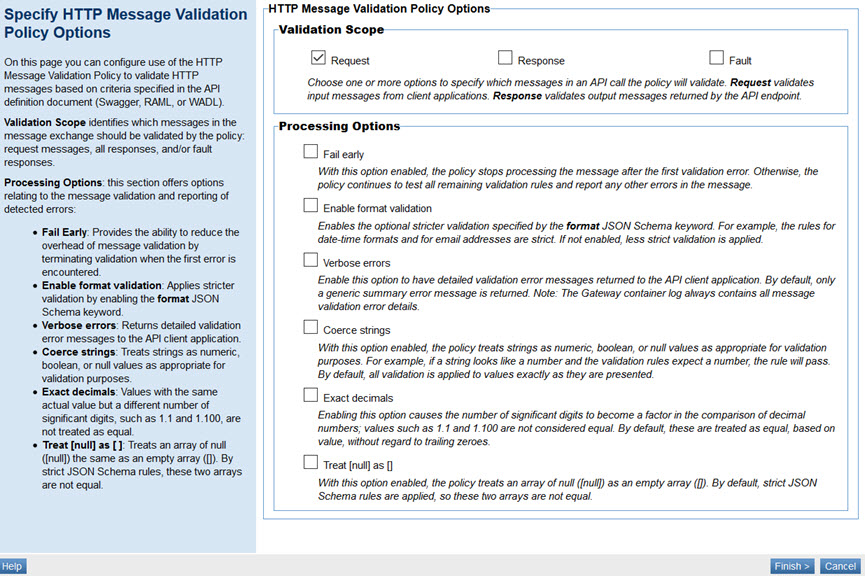
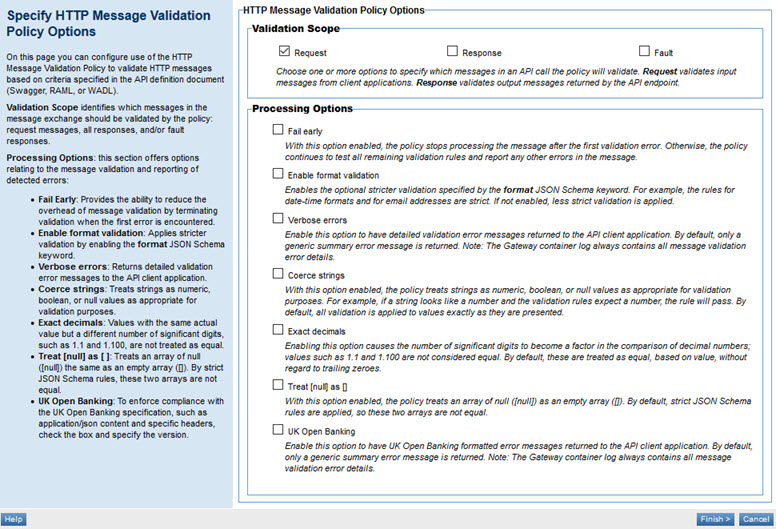
INFRA-3292 2018.0.4 doc updates

diff --git a/ag/policies/policy_op_jose_security_v2.htm b/ag/policies/policy_op_jose_security_v2.htm
@@ -9,12 +9,11 @@ weight: 04
 type: page
 nav-title: JOSE Security v2
 ---
-<h2 id="top">Using the JOSE Security Policy v2 (Unencoded Payload Support)</h2>
+<h2 id="top">Using the JOSE Security Policy v2 (Unencoded Payload Support) </h2>
 <p>Learn how to use the JOSE Security Policy v2 (Unencoded Payload Support) to sign and encrypt JSON message content.</p>
 
-<p>
-<a href="about_policies_view.htm" class="button secondary">About Policies</a>  
-<a href="policy_management.htm" class="button secondary">Managing Policies</a>  
+<p><a href="about_policies_view.htm" class="button secondary">About Policies</a> 
+<a href="policy_management.htm" class="button secondary">Managing Policies</a> 
 <a href="policies_operational_about.htm" class="button secondary">About Operational Policies</a></p>
 <p>For information about using policies in the context of the developer portal, see <a href="../../cm/learnmore/bus_admin_organizations.htm#h_business_policies">Business Policies</a>.</p>
 <h5 class="stamp">Supported Platforms: 8.4.17 and later</h5>
@@ -66,7 +65,7 @@ nav-title: JOSE Security v2
 <ul>
 	<li>Support of the Unencoded Payload specification</li>
 	<li>Support of additional algorithms (PS256, PS384, and PS512)</li>
-	<li>Support of the <strong>crit</strong> claim required by the Open Banking specification</li>
+	<li>Support of the UK Open Banking specification (for details see below)</li>
 	<li>JWKS support (when configured for consumer Apps in the App OAuth Profile)</li>
 </ul>
 <p><a href="#top">back to top</a></p>
@@ -81,7 +80,7 @@ nav-title: JOSE Security v2
 	</ul>
 <p>In addition, it supports the following versions of the UK Open Banking specification:</p>
 <ul>
-	<li>2.0: <a href="https://openbanking.atlassian.net/wiki/spaces/DZ/pages/127009221/Read+Write+Data+API+Specification+-+v2.0.0" title="https://openbanking.atlassian.net/wiki/spaces/DZ/pages/127009221/Read+Write+Data+API+Specification+-+v2.0.0" target="_blank">https://openbanking.atlassian.net/wiki/spaces/DZ/pages/127009221/Read+Write+Data+API+Specification+-+v2.0.0</a></li>
+	<li>Versions 3.0 and earlier, for example 2.0: <a href="https://openbanking.atlassian.net/wiki/spaces/DZ/pages/127009221/Read+Write+Data+API+Specification+-+v2.0.0" title="https://openbanking.atlassian.net/wiki/spaces/DZ/pages/127009221/Read+Write+Data+API+Specification+-+v2.0.0" target="_blank">https://openbanking.atlassian.net/wiki/spaces/DZ/pages/127009221/Read+Write+Data+API+Specification+-+v2.0.0</a></li>
 	<li>3.1: <a href="https://openbanking.atlassian.net/wiki/spaces/DZ/pages/937656404/Read+Write+Data+API+Specification+-+v3.1" title="https://openbanking.atlassian.net/wiki/spaces/DZ/pages/937656404/Read+Write+Data+API+Specification+-+v3.1" target="_blank">https://openbanking.atlassian.net/wiki/spaces/DZ/pages/937656404/Read+Write+Data+API+Specification+-+v3.1</a></li>
 </ul>
 <p><a href="#top">Back to top</a></p>
@@ -92,13 +91,15 @@ nav-title: JOSE Security v2
 <p>The JOSE Security Policy v2 includes the option to enable Open Banking support (Version 8.4.18 and later).</p>
 <p>This policy supports UK Open Banking versions as specified above.</p>
 <p>When you enable this feature, the policy enforces additional rules determined by the Open Banking specification that you specify.</p>
-<p>Some examples of Open Banking support are:</p>
+<p>Some examples of UK Open Banking support are:</p>
 <ul>
 	<li><a href="#jose_ob_ct_accept">Content-Type and Accept header values</a></li>
 	<li><a href="#jose_ob_crit"><strong>crit</strong> claim</a></li>
+	<li><a href="#jose_ob_iat"><strong>iat</strong> claim</a></li>
 	<li><a href="#jose_ob_iss"><strong>iss</strong> claim</a></li>
-	<li><a href="#jose_ob_tan"><strong>tan</strong> claim</a> (v3.1)</li>
-	<li><a href="#jose_ob_typ"><strong>typ</strong> claim</a> (v3.1)</li>
+	<li><a href="#jose_ob_tan"><strong>tan</strong> claim</a> (v3.1) (Version 2018.0.4 and later)</li>
+	<li><a href="#jose_ob_typ"><strong>typ</strong> claim</a> (v3.1) (Version 2018.0.4 and later)</li>
+	<li><a href="#jose_ob_error_msging">Error messaging requirements</a> (v3.1) (Version 2018.0.4 and later)</li>
 </ul>
 
 
@@ -108,10 +109,11 @@ nav-title: JOSE Security v2
 
 <h4 id="jose_ob_crit">crit claim</h4>
 <p>The JOSE Security Policy v2 supports the required <strong>crit</strong> claim with specific values.</p>
-<p><strong>2.0:</strong></p>
-<p>For Open Banking 2.0, the JOSE policy v2 supports sending the custom <strong>iat</strong> and <strong>iss</strong> claims, and supports specifying those custom claims in the <strong>crit</strong> claim, as per the specification.</p>
-<p>In version 2.0, the <strong>crit</strong> claim is required, and must be a string array of the three specific values shown below:</p>
+<p><strong>3.0 and earlier:</strong></p>
+<p>For Open Banking 3.0 and earlier, the JOSE policy v2 supports sending the custom <strong>iat</strong> and <strong>iss</strong> claims, and supports specifying those custom claims in the <strong>crit</strong> claim, as per the specification.</p>
+<p>For example, in version 2.0, the <strong>crit</strong> claim is required, and must be a string array of the three specific values shown below:</p>
 <pre>"b64", "http://openbanking.org.uk/iat", "http://openbanking.org.uk/iss"</pre>
+<p>&nbsp;</p>
 <p><strong>3.1:</strong></p>
 <p>In version 3.1, the JOSE Security Policy v2 supports sending the additional <strong>tan</strong> claim which is required, see <a href="#jose_ob_tan"><strong>tan</strong> claim</a> below, and supports including the <strong>tan</strong> claim in the <strong>crit</strong> claim, as per the specification.</p>
 <p>In version 3.1, the <strong>crit</strong> claim is required and must be a string array of the four specific values shown below:</p>
@@ -119,10 +121,17 @@ nav-title: JOSE Security v2
 <p>For more information, see the Open Banking 3.1 specification: <a href="https://openbanking.atlassian.net/wiki/spaces/DZ/pages/937656404/Read+Write+Data+API+Specification+-+v3.1#Read/WriteDataAPISpecification-v3.1-ProcessforSigningaPayload" title="https://openbanking.atlassian.net/wiki/spaces/DZ/pages/937656404/Read+Write+Data+API+Specification+-+v3.1#Read/WriteDataAPISpecification-v3.1-ProcessforSigningaPayload" target="_blank">https://openbanking.atlassian.net/wiki/spaces/DZ/pages/937656404/Read+Write+Data+API+Specification+-+v3.1#Read/WriteDataAPISpecification-v3.1-ProcessforSigningaPayload</a> (Step 2).</p>
 
 
+<h4 id="jose_ob_iat">iat claim</h4>
+<p>JOSE Security Policy v2 supports the custom <strong>iat</strong> private header parameter claim.</p>
+<p>For this claim, the details are the same for 2.0/3.0 and 3.1.</p>
+<p>The JOSE policy v2 supports sending the <strong>iat</strong> claim, which must be a JSON number representing a <a href="../../cm/learnmore/basics_glossary.htm#gl_coordinateduniversaltime">UTC</a> value, and validates it per the specification.</p>
+
+
 <h4 id="jose_ob_iss">iss claim</h4>
 <p>JOSE Security Policy v2 supports the custom <strong>iss</strong> private header parameter claim.</p>
-<p><strong>2.0:</strong></p>
-<p>For version 2.0, the <strong>iss</strong> claim must be a string with the ID of the third-party provider, and it must match the domain name of the signing certificate.</p>
+<p><strong>3.0 and earlier:</strong></p>
+<p>For Open Banking 3.0 and earlier, the JOSE policy v2 supports sending the <strong>iss</strong> claim, and supports specifying it in the <strong>crit</strong> claim, as per the specification.</p>
+<p>For example, for version 2.0, the <strong>iss</strong> claim must be a string with the ID of the third-party provider, and it must match the domain name of the signing certificate.</p>
 <p><strong>3.1:</strong></p>
 <p>For version 3.1, a JOSE policy using the JWKS URL option can retrieve the certificate to verify the <strong>iss</strong> claim from the JWKS rather than requiring the <strong>x5c</strong> claim to be in the JWS header. When retrieving the certificate, the policy looks in the following locations, in the specified sequence:</p>
 <ol>
@@ -134,18 +143,25 @@ nav-title: JOSE Security v2
 
 
 <h4 id="jose_ob_tan">tan claim (v3.1)</h4>
+<p><strong>Valid in version: 2018.0.4 and later</strong></p>
 <p>The <strong>tan</strong> claim is required in the JOSE header per the Open Banking 3.1 specification.</p>
 <p>When Open Banking support is enabled in the policy, if a <strong>tan</strong> claim exists in the JWS header, the JOSE Security Policy v2 validates the header value and validates that it is present in the <strong>crit</strong> claim list.</p>
 <p>For more information, see the Open Banking 3.1 specification: <a href="https://openbanking.atlassian.net/wiki/spaces/DZ/pages/937656404/Read+Write+Data+API+Specification+-+v3.1#Read/WriteDataAPISpecification-v3.1-ProcessforSigningaPayload" title="https://openbanking.atlassian.net/wiki/spaces/DZ/pages/937656404/Read+Write+Data+API+Specification+-+v3.1#Read/WriteDataAPISpecification-v3.1-ProcessforSigningaPayload" target="_blank">https://openbanking.atlassian.net/wiki/spaces/DZ/pages/937656404/Read+Write+Data+API+Specification+-+v3.1#Read/WriteDataAPISpecification-v3.1-ProcessforSigningaPayload</a> (Step 2).</p>
 
 
 <h4 id="jose_ob_typ">typ claim (v3.1)</h4>
+<p><strong>Valid in version: 2018.0.4 and later</strong></p>
 <p>The <strong>typ</strong> claim is optional in the JOSE header per the Open Banking 3.1 specification. If present, it must have the value <strong>JOSE</strong>.</p>
 <p>The JOSE Security Policy v2 validates that if a <strong>typ</strong> claim exists, it has the correct value.</p>
 <p>For more information, see the Open Banking 3.1 specification: <a href="https://openbanking.atlassian.net/wiki/spaces/DZ/pages/937656404/Read+Write+Data+API+Specification+-+v3.1#Read/WriteDataAPISpecification-v3.1-ProcessforSigningaPayload" title="https://openbanking.atlassian.net/wiki/spaces/DZ/pages/937656404/Read+Write+Data+API+Specification+-+v3.1#Read/WriteDataAPISpecification-v3.1-ProcessforSigningaPayload" target="_blank">https://openbanking.atlassian.net/wiki/spaces/DZ/pages/937656404/Read+Write+Data+API+Specification+-+v3.1#Read/WriteDataAPISpecification-v3.1-ProcessforSigningaPayload</a> (Step 2).</p>
 
 
-<p>For full details, see <a href="#jose_unenc_options_p1">Configuring JOSE Security Policy v2 options</a> below (<a href="#enforce_open_banking">Enforce Open Banking</a> section).</p>
+<p>For full details, see <a href="#jose_unenc_options_p1">Configuring JOSE Security Policy v2 options</a> below (<a href="#jose_v2_uk_ob">UK Open Banking</a> section).</p>
+
+
+<h4 id="jose_ob_error_msging">Error messaging requirements  (v3.1)</h4>
+<p><strong>Valid in version: 2018.0.4 and later</strong></p>
+<p>When you enable Open Banking support on the JOSE Security Policy v2, and choose version 3.1, the error messages returned to the API client application are formatted according to the Open Banking specification version 3.1; see <a href="https://openbanking.atlassian.net/wiki/spaces/DZ/pages/937656404/Read+Write+Data+API+Specification+-+v3.1#Read/WriteDataAPISpecification-v3.1-ErrorResponseStructure" title="Open Banking 3.1 specification, section titled Standard Error Code(s)" target="_blank">Open Banking 3.1 specification, section titled Standard Error Code(s)</a>. By default, only a generic summary error message is returned.</p>
 <p><a href="#top">back to top</a></p>
 
 
@@ -196,7 +212,7 @@ nav-title: JOSE Security v2
 
 <h3 id="jose_unenc_options_p1">Configuring JOSE Security Policy v2 options</h3>
 <p><img src="images/jose_v2_01_options.jpg" alt="JOSE Security Policy v2 (Unencoded Payload Support): policy options" /></p>
-<p>On the <strong>Specify JOSE Security Policy v2 Options</strong> page, you specify general configuration settings. Refer to the details below.</p>
+<p>On the <strong>Specify JOSE Security Policy v2 Options</strong> page, specify general configuration settings. Refer to the details below.</p>
 
 <dl>
 <dt>Protection Scope</dt>
@@ -242,15 +258,10 @@ nav-title: JOSE Security v2
 <pre>{&quot;kid&quot;:&quot;signKey&quot;,&quot;alg&quot;:&quot;RS256&quot;,&quot;cty&quot;:&quot;application/json&quot;}</pre></dd>
 
 
-<dt id="enforce_open_banking">Enforce Open Banking (8.4.18 and later)</dt>
-<dd>Check this box if you want this policy to enforce the additional requirements of the Open Banking specification (<a href="https://openbanking.atlassian.net/wiki/spaces/DZ/pages/4011436/Payment+Initiation+API+Specification+-+v1.0.0" title="Link to Open Banking specification" target="_blank">https://openbanking.atlassian.net/wiki/spaces/DZ/pages/4011436/Payment+Initiation+API+Specification+-+v1.0.0</a>). If you choose this option, the policy enforces the following additional rules as per the Open Banking specification:
-	<ul>
-	<li>The Content-Type header must be set to <strong>application/json</strong>.</li>
-	<li>If there is an Accept header, it is set to <strong>application/json</strong>.</li>
-	<li>The <strong>crit</strong> claim is a string array of the <strong>b64</strong>, <strong>iat</strong>, and <strong>iss</strong> claims: &quot;b64&quot;, &quot;http://openbanking.org.uk/iat&quot;, &quot;http://openbanking.org.uk/iss&quot;.</li>
-	<li>The values for the <strong>iat</strong> and <strong>iss</strong> claims comply with the Open Banking specification, as per the above.</li>
-</ul>
-</dd>
+<dt id="jose_v2_uk_ob">UK Open Banking (8.4.18 and later, 3.1 support 2018.0.4)</dt>
+<dd>Enable this option for conformance to the UK <a href="../../cm/learnmore/basics_glossary.htm#gl_openbanking">Open Banking</a> specification. Check the box and then specify the version. Versions up to 3.1 are supported, as shown below.</dd>
+<dd><img src="images/jose_policyoptions_ob.jpg" alt="Specify JOSE Policy v2 Option for Open Banking" /></dd>
+<dd>If you choose this option, the policy enforces additional rules as per the Open Banking specification. For details, see <a href="#jose_unenc_support_open_banking">JOSE Security Policy v2 support of the Open Banking specification</a>.</dd>
 </dl>
 <p>Click <strong>Next</strong> to go to the next page, which is determined by your choice in the <strong>Protection Scope</strong> field:</p>
 <ul>
@@ -302,7 +313,7 @@ nav-title: JOSE Security v2
 
 <h3 id="jose_unenc_options_out_provider">Configuring JOSE Security Policy v2 OUT Message options for Provider</h3>
 <p><img src="images/jose_v2_03_options_out_provider.jpg" alt="JOSE Security Policy v2 (Unencoded Payload Support): OUT options (Provider role)" /></p>
-<p>If you choose a Protection Scope of <strong>OUT</strong> and/or <strong>FAULT </strong> and a role of <strong>Provider</strong>, you'll need to determine signing and encryption settings for outbound messages.</p>
+<p>If you choose a Protection Scope of <strong>OUT</strong> and/or <strong>FAULT</strong> and a role of <strong>Provider</strong>, you'll need to determine signing and encryption settings for outbound messages.</p>
 <p>If you choose to sign and/or encrypt content for OUT and/or FAULT messages, configure the signing and encryption options. The settings will apply to OUT messages, FAULT messages, or both.</p>
 <p>You can also specify one or more private headers. This page has three sections:</p>
 <ul>
@@ -431,7 +442,7 @@ nav-title: JOSE Security v2
 <h3 id="jose_unenc_options_out_consumer">Configuring JOSE Security Policy v2 OUT Message options for Consumer</h3>
 <p><strong>Valid in version: 2018.0.0 and later</strong></p>
 <p><img src="images/jose_v2_05_options_out_consumer.jpg" alt="JOSE Security Policy v2 (Unencoded Payload Support): OUT options (Consumer role)" /></p>
-<p>If you choose a Protection Scope of <strong>OUT</strong> and/or <strong>FAULT </strong> and a role of <strong>Consumer</strong>, you'll need to configure the signing and encryption options for outbound messages to the client. When the messages come in from the downstream service, the platform will apply these settings to the content and send it to the client.</p>
+<p>If you choose a Protection Scope of <strong>OUT</strong> and/or <strong>FAULT</strong> and a role of <strong>Consumer</strong>, you'll need to configure the signing and encryption options for outbound messages to the client. When the messages come in from the downstream service, the platform will apply these settings to the content and send it to the client.</p>
 <p>There are two main categories of settings: <strong>Signed Content</strong> and <strong>Encrypted Content</strong>. For each, if you choose to sign and/or encrypt, additional configuration options are available so that you can specify the identity of the signed content for IN messages, as shown below.</p>
 <dl>
 <dt>Signed content, Subject Category</dt>
@@ -559,8 +570,8 @@ nav-title: JOSE Security v2
 <h4 id="json_det_no">JSON format, not detached</h4>
 <p>Refer to RFC 7797 JWS specification:</p>
 <ul>
-	<li>Section: <a href="https://tools.ietf.org/html/rfc7797#section-5.3" target="_blank">5.3.  Unencoded JWS JSON Serialization Payload</a>.</li>
-	<li>Example: <a href="https://tools.ietf.org/html/rfc7797#section-4.1" target="_blank">4.1.  Example with Header Parameters {&quot;alg&quot;:&quot;HS256&quot;}</a>.</li>
+	<li>Section: <a href="https://tools.ietf.org/html/rfc7797#section-5.3" target="_blank">5.3. Unencoded JWS JSON Serialization Payload</a>.</li>
+	<li>Example: <a href="https://tools.ietf.org/html/rfc7797#section-4.1" target="_blank">4.1. Example with Header Parameters {&quot;alg&quot;:&quot;HS256&quot;}</a>.</li>
 </ul>
 <p>The example below shows a response message in JSON format with the payload not detached.</p>
 <p><strong>Body (payload)</strong></p>
@@ -592,7 +603,7 @@ oCFYaoEOkGZlREUmWcQtQ",
 <p>Refer to RFC 7797 JWS specification:</p>
 <ul>
 	<li>Section: <a href="https://tools.ietf.org/html/rfc7797#section-5.1" target="_blank">5.1. Unencoded Detached Payload</a>.</li>
-	<li>Example: <a href="https://tools.ietf.org/html/rfc7797#section-4.2" target="_blank">4.2.  Example with Header Parameters</a>.</li>
+	<li>Example: <a href="https://tools.ietf.org/html/rfc7797#section-4.2" target="_blank">4.2. Example with Header Parameters</a>.</li>
 </ul>
 <p>The detached versions of JSON is similar, but the payload is unsigned. The payload is sent in the body of the message, and the other values are sent in a header. The name of the header is defined as part of the policy definition setup.</p>
 <p>The example below shows the same response message used in the previous example, in JSON format with detached payload.</p>
@@ -624,7 +635,7 @@ stmZKsRWrVx-tnmLX7aIhz9NL0jOmRf1deh4HAenk7JKPzUgAxZssylmTCivkuV10yrdlIgyUYELkHNz
 <p>Refer to RFC 7797 JWS specification:</p>
 <ul>
 	<li>Section: <a href="https://tools.ietf.org/html/rfc7797#section-5.1" target="_blank">5.1. Unencoded Detached Payload</a>.</li>
-	<li>Example: <a href="https://tools.ietf.org/html/rfc7797#section-4.1" target="_blank">4.1.  Example with Header Parameters {"alg":"HS256"}</a>.</li>
+	<li>Example: <a href="https://tools.ietf.org/html/rfc7797#section-4.1" target="_blank">4.1. Example with Header Parameters {"alg":"HS256"}</a>.</li>
 </ul>
 <p>With Compact format, the request is similar in structure, but it's not a JSON object.</p>
 <p>It is simply a compact version of the information. The values should be the same, if the content is the same.</p>
@@ -646,8 +657,8 @@ nJCpGiq_3r_6Ygb64YjnjSMScoF2-f8z8mGZptOZsojzlI_bcJ3yFRyzit__uwQcyMBQ73maen9gZnXb
 <h4 id="compact_det_yes">Compact format, detached</h4>
 <p>Refer to RFC 7797 JWS specification:</p>
 <ul>
-	<li>Section: <a href="https://tools.ietf.org/html/rfc7797#section-5.2" target="_blank">5.2.  Unencoded JWS Compact Serialization Payload</a>.</li>
-	<li>Example: <a href="https://tools.ietf.org/html/rfc7797#section-4.2" target="_blank">4.2.  Example with Header Parameters</a>.</li>
+	<li>Section: <a href="https://tools.ietf.org/html/rfc7797#section-5.2" target="_blank">5.2. Unencoded JWS Compact Serialization Payload</a>.</li>
+	<li>Example: <a href="https://tools.ietf.org/html/rfc7797#section-4.2" target="_blank">4.2. Example with Header Parameters</a>.</li>
 </ul>
 <p>As with detached JSON, the payload is unsigned, so the middle part of the message, between the two periods, is missing. The raw payload is sent with the request or returned with the response.</p>
 <p>In this scenario, the detached payload goes into a header.</p>
